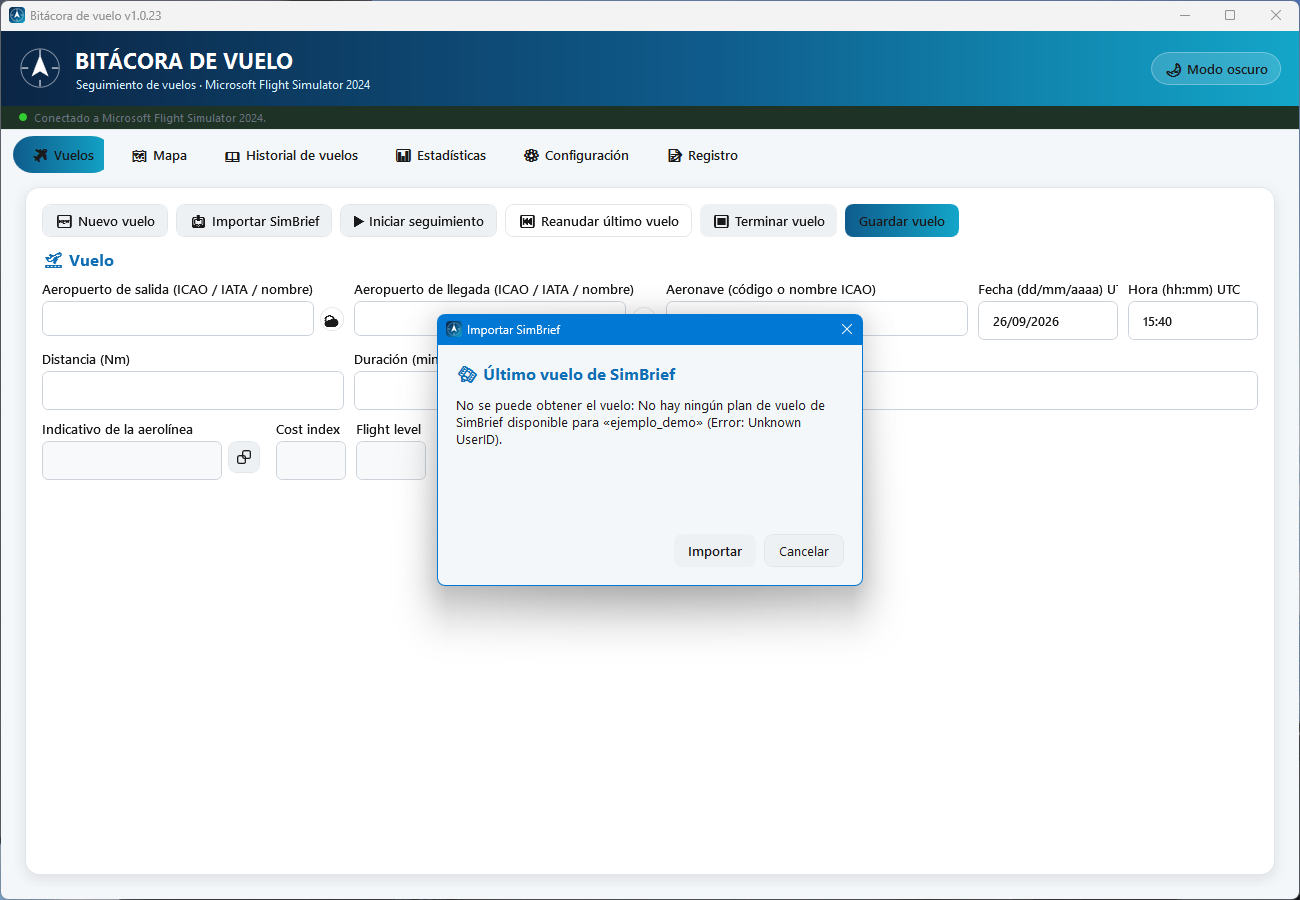
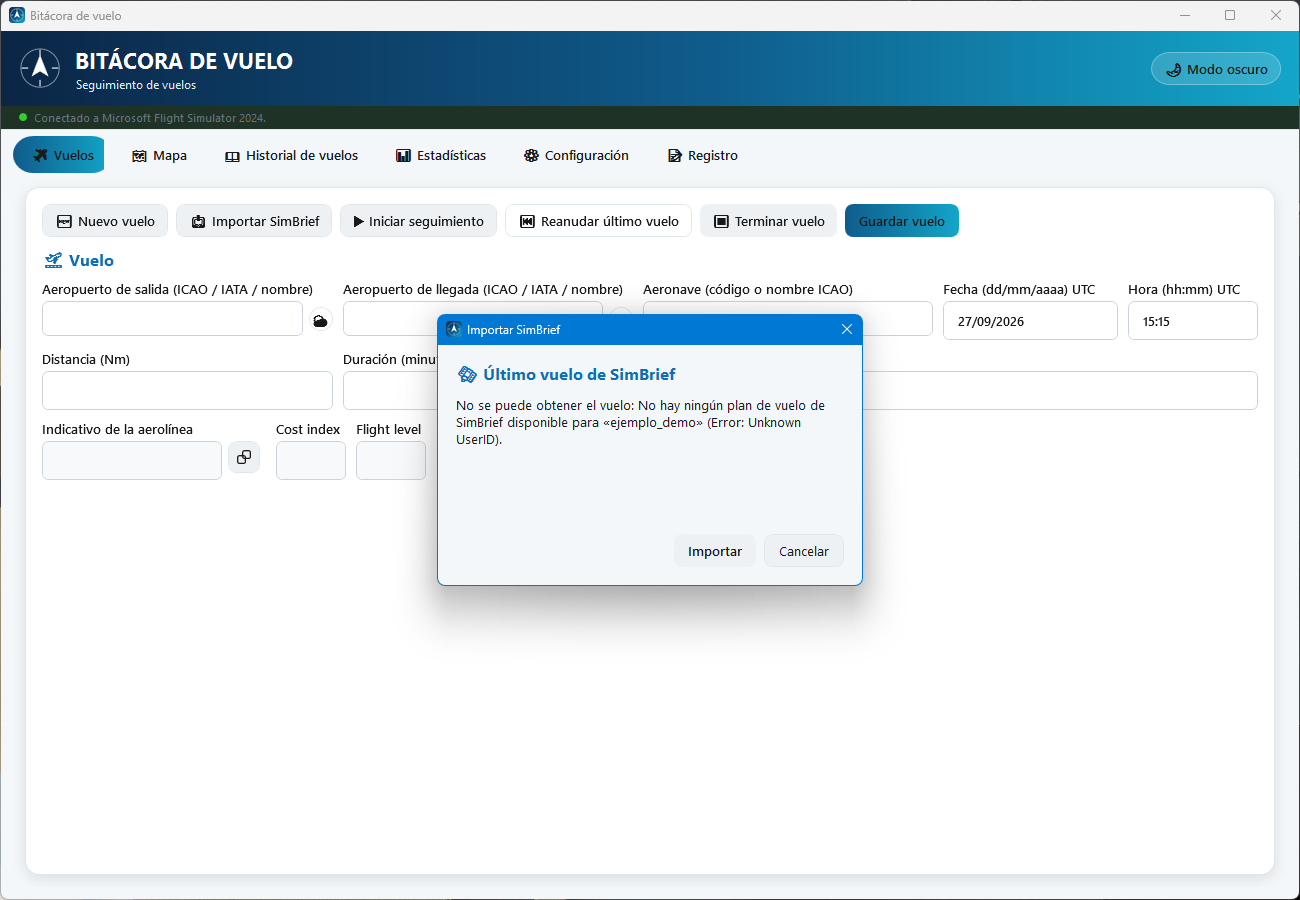
Carnet de Vol 1.0.24 : captures et guides mis à jour
Recopie depuis kairhosen/CarnetDeVol : captures des plaquettes (nouvel en-tête :
titre sans numéro de version, bannière sans mention MSFS 2024), captures des
guides refaites sur la version actuelle et guides passés en 1.0.24. La version
et le lien de téléchargement restent lus en direct depuis
kairhosen/CarnetDeVol-releases.

diff --git a/guides/carnetdevol/guia-usuario.html b/guides/carnetdevol/guia-usuario.html
@@ -267,7 +267,7 @@
   <div class="icon">🧭</div>
   <h1>Bitácora de vuelo — Guía del usuario</h1>
   <p>Seguimiento de vuelos · Microsoft Flight Simulator 2024</p>
-  <span class="badge">Versión 1.0.23 · Windows · aplicación nativa</span>
+  <span class="badge">Versión 1.0.24 · Windows · aplicación nativa</span>
 </header>
 
 <div class="layout">
@@ -905,7 +905,7 @@
 </div>
 
 <footer>
-  Bitácora de vuelo (Carnet de Vol) — FS2024 · Guía redactada para la versión 1.0.23.
+  Bitácora de vuelo (Carnet de Vol) — FS2024 · Guía redactada para la versión 1.0.24.
 </footer>
 
 <script>

diff --git a/guides/carnetdevol/user-guide.html b/guides/carnetdevol/user-guide.html
@@ -267,7 +267,7 @@
   <div class="icon">🧭</div>
   <h1>Flight Logbook — User guide</h1>
   <p>Flight tracking · Microsoft Flight Simulator 2024</p>
-  <span class="badge">Version 1.0.23 · Windows · native application</span>
+  <span class="badge">Version 1.0.24 · Windows · native application</span>
 </header>
 
 <div class="layout">
@@ -885,7 +885,7 @@
 </div>
 
 <footer>
-  Flight Logbook (Carnet de Vol) — FS2024 · Guide written for version 1.0.23.
+  Flight Logbook (Carnet de Vol) — FS2024 · Guide written for version 1.0.24.
 </footer>
 
 <script>

diff --git a/guides/carnetdevol/guide-utilisateur.html b/guides/carnetdevol/guide-utilisateur.html
@@ -267,7 +267,7 @@
   <div class="icon">🧭</div>
   <h1>Carnet de Vol — Guide de l'utilisateur</h1>
   <p>Suivi de vols · Microsoft Flight Simulator 2024</p>
-  <span class="badge">Version 1.0.23 · Windows · application native</span>
+  <span class="badge">Version 1.0.24 · Windows · application native</span>
 </header>
 
 <div class="layout">
@@ -895,7 +895,7 @@
 </div>
 
 <footer>
-  Carnet de Vol — FS2024 · Guide généré pour la version 1.0.23.
+  Carnet de Vol — FS2024 · Guide généré pour la version 1.0.24.
 </footer>
 
 <script>
